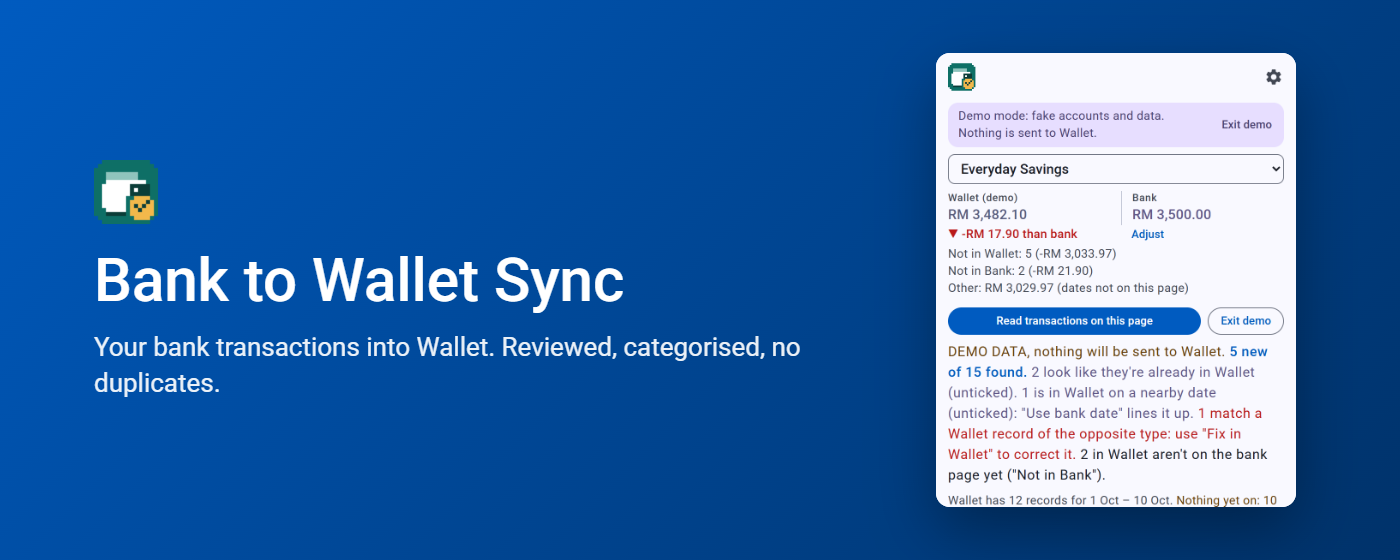
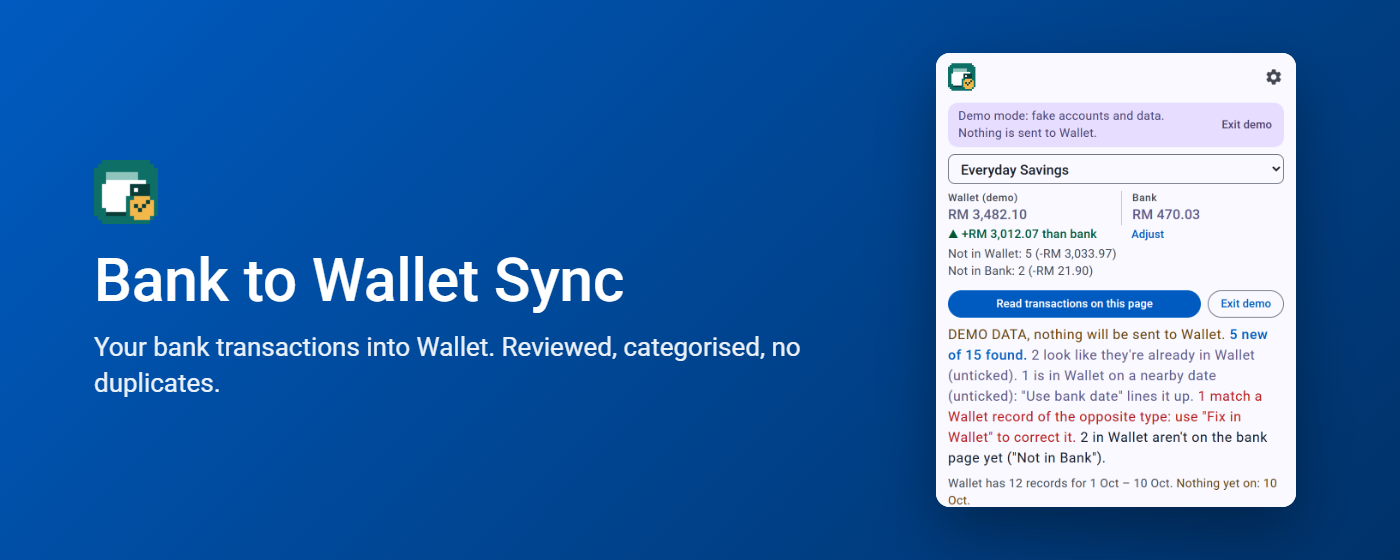
chore(store): make the demo balance add up for the screenshots
The demo's bank balance now equals Wallet's plus the new rows minus the
"Not in Bank" records, so the screenshots show the page explaining the
whole difference instead of a large "Other" amount.

diff --git a/demo.js b/demo.js
@@ -34,7 +34,9 @@ export const DEMO_ACCOUNTS = [
 ];
 
 // What the demo "bank page" shows as its balance (a little above the demo Wallet balance, so Adjust has something to do).
-export const DEMO_BANK_BALANCE = { label: 'Current Balance', amount: 3500 };
+// Wallet's 3482.10 + the new rows (-3033.97) - the "Not in Bank" records (-21.90), so the page explains the whole
+// difference (no "Other" line in the store screenshots).
+export const DEMO_BANK_BALANCE = { label: 'Current Balance', amount: 470.03 };
 
 // Fake category list for the per-row picker, shaped like listCategories().
 export const DEMO_CATEGORIES = [
